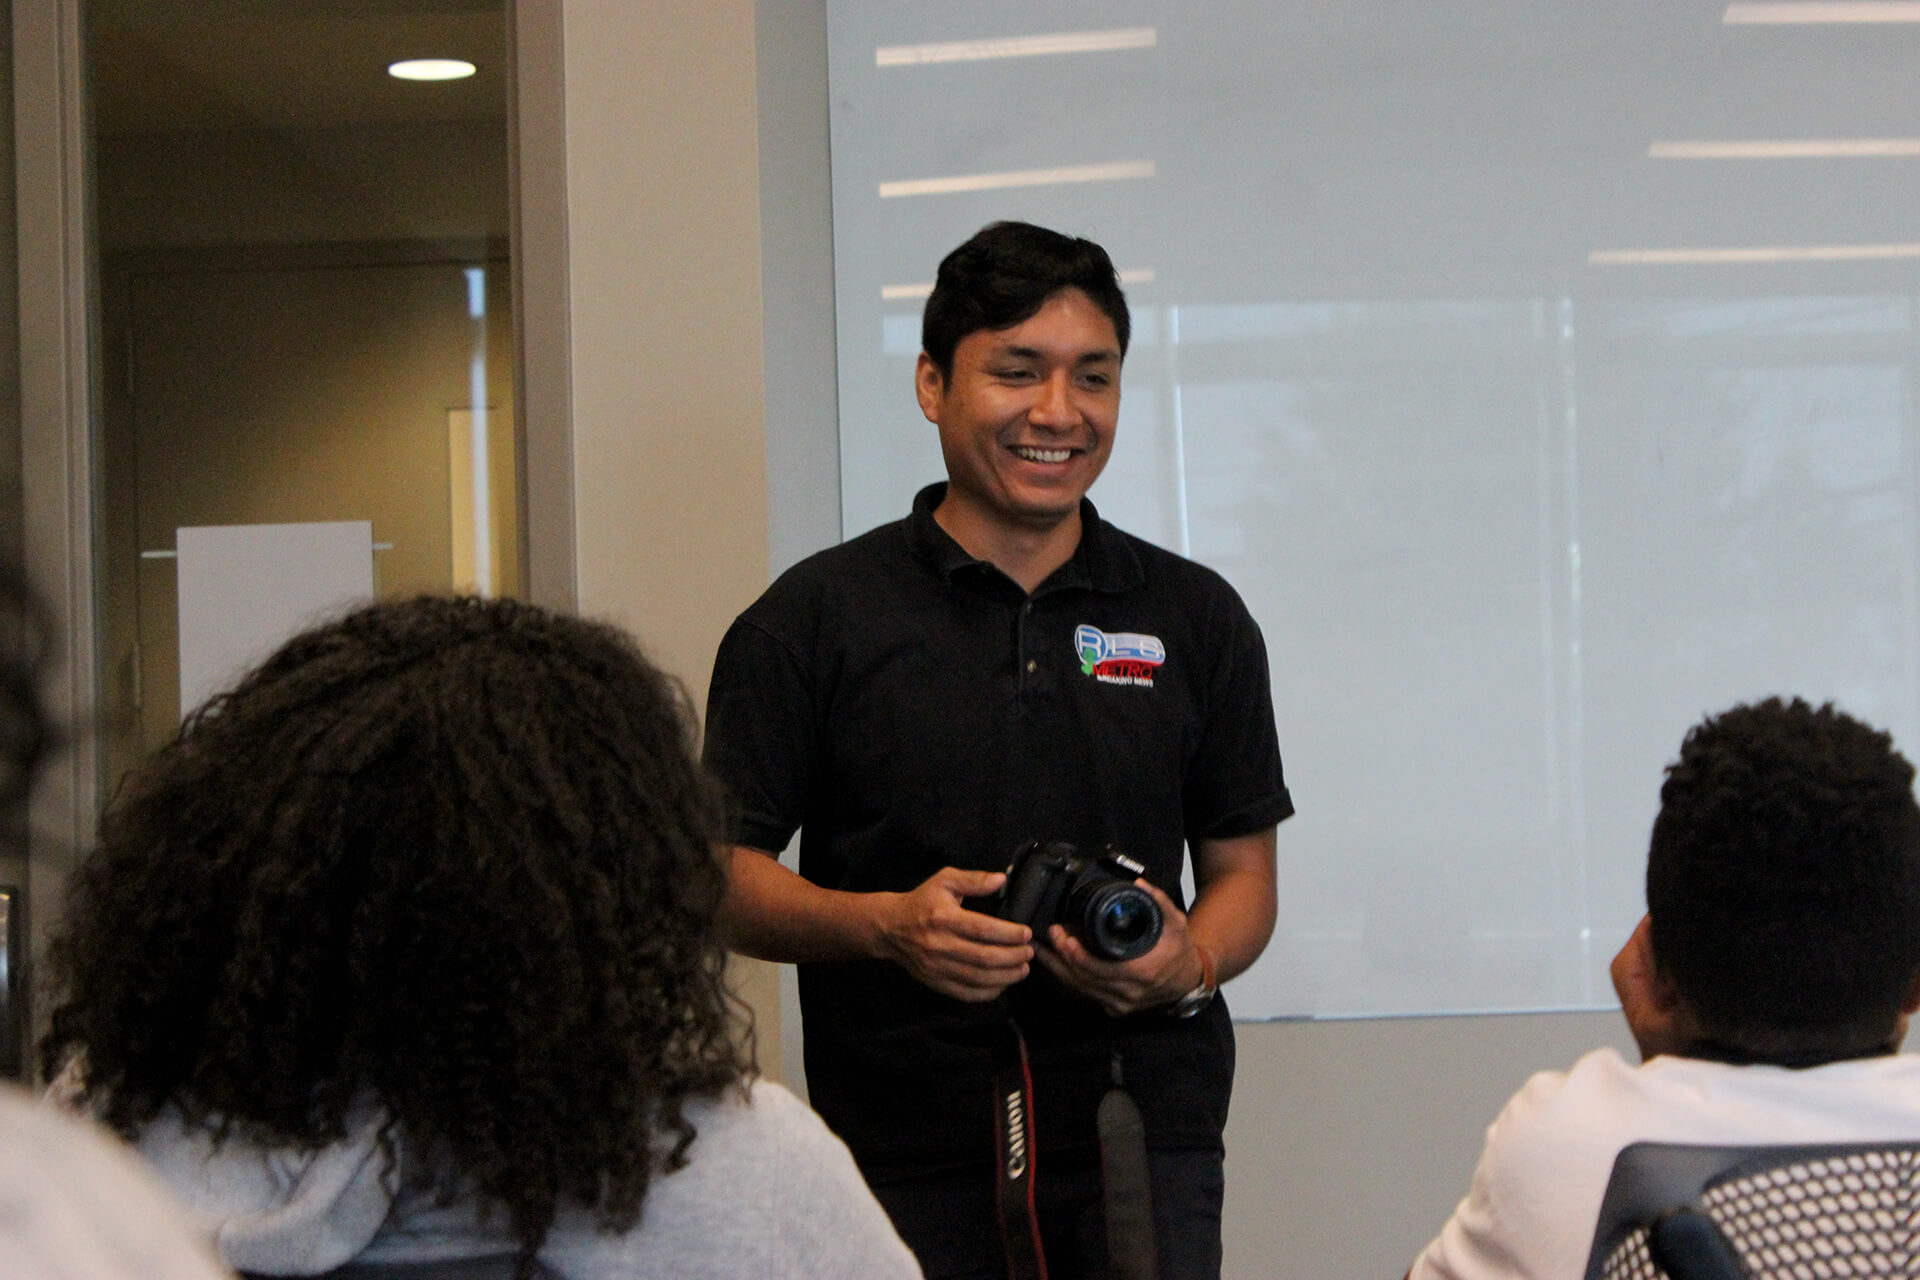
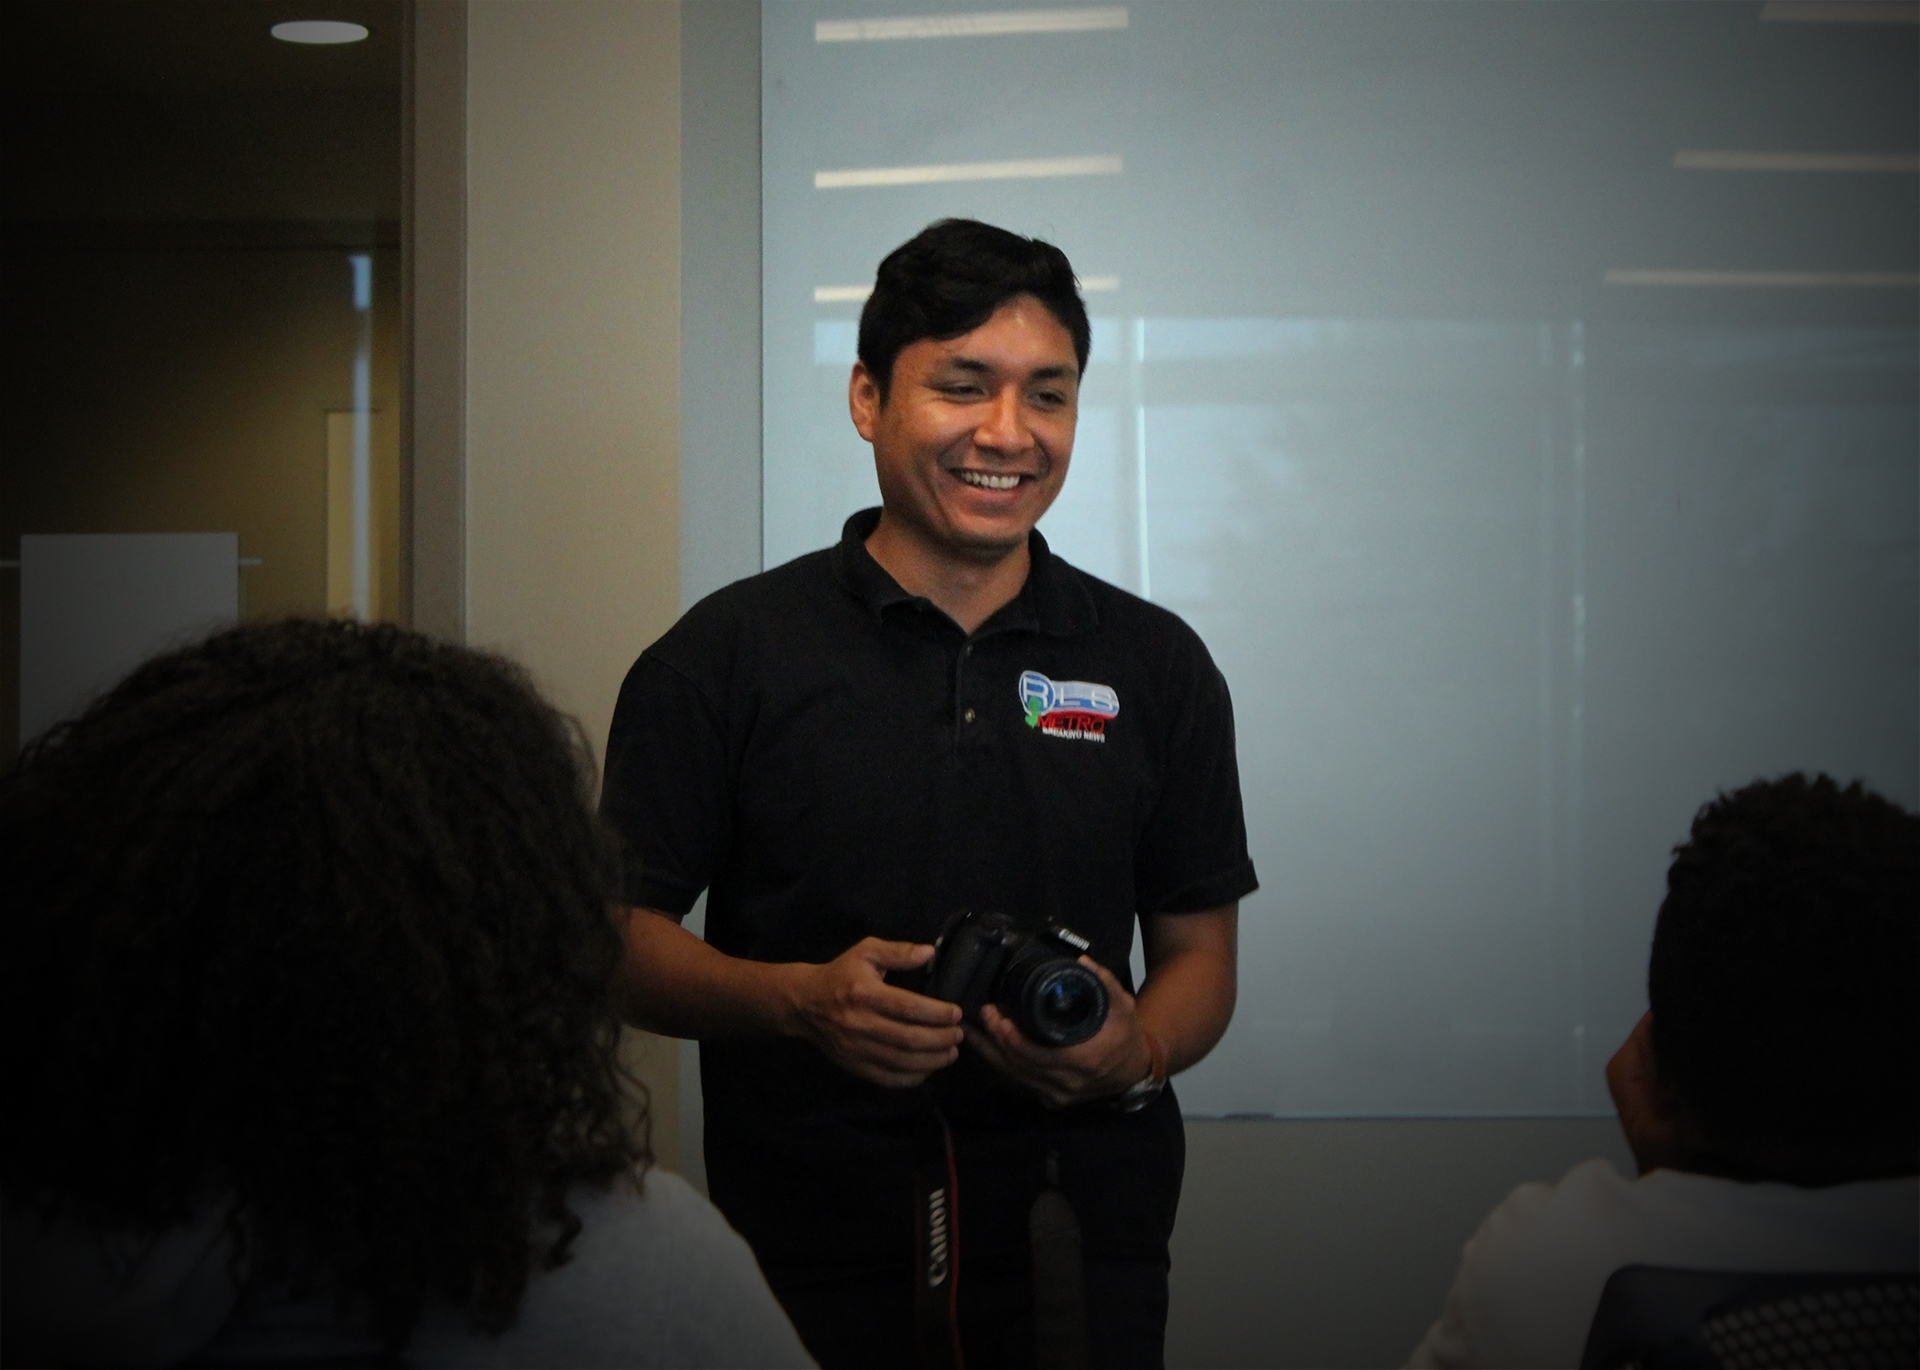
add image vignette

diff --git a/index.html b/index.html
@@ -24,7 +24,7 @@
 
   <!-- Add your site or application content here -->
 <style>
-  h1 { font-family: 'Noto Serif', serif;
+  h1 {
     font-family: 'Oswald', sans-serif;
     font-weight: 300;
     font-size: 2.6em;
@@ -34,7 +34,6 @@
 }
 
 #wrapper{
-    //background: red;
     display: block;
     margin: 0 auto;
     display: flex;
@@ -63,7 +62,7 @@
 
 body {
     background-size: cover;
-    background-image: url("img/cesar_enrriquez.JPG");
+    background-image: url("img/cesar_enrriquez.jpg");
     background-attachment: fixed;
     background-position: center center;
     background-color: #222;
